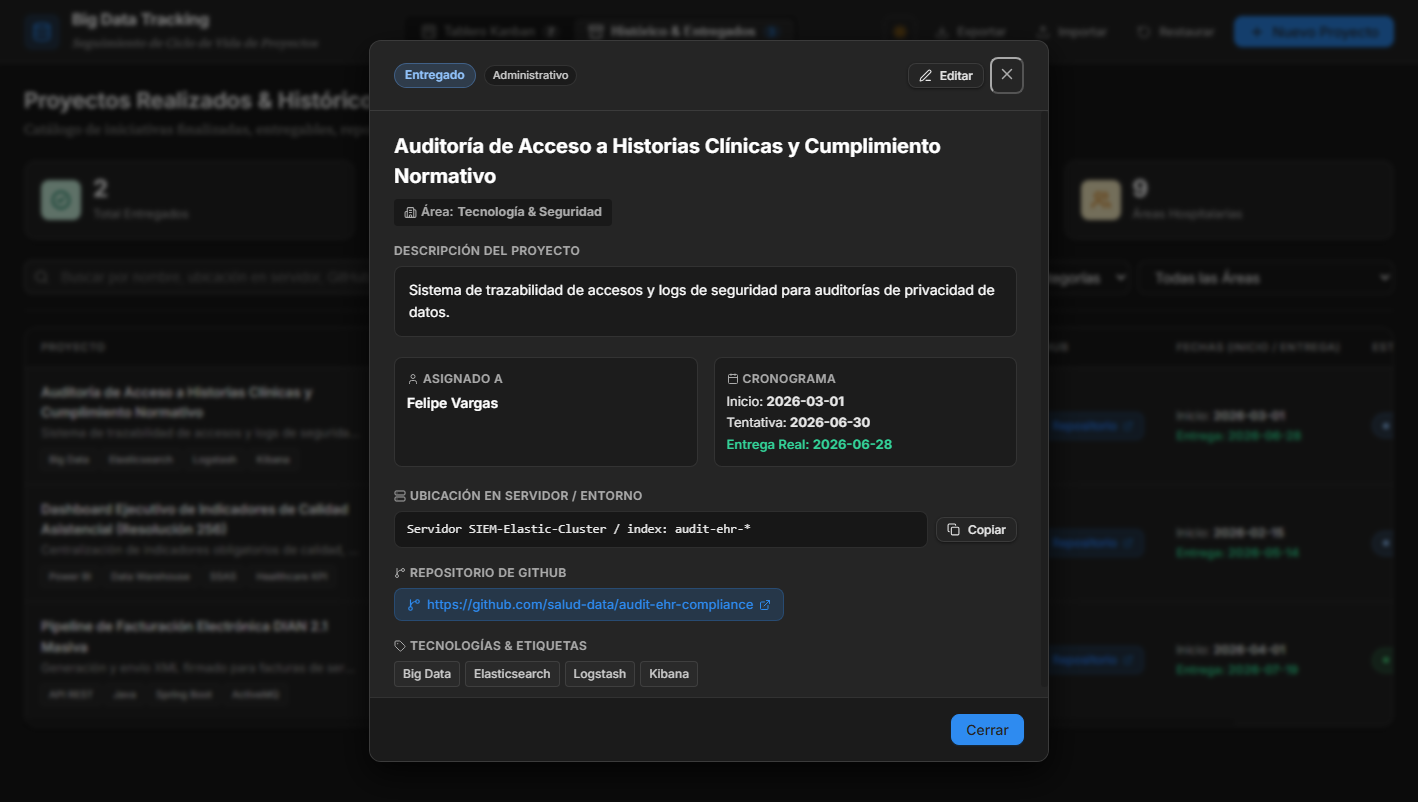
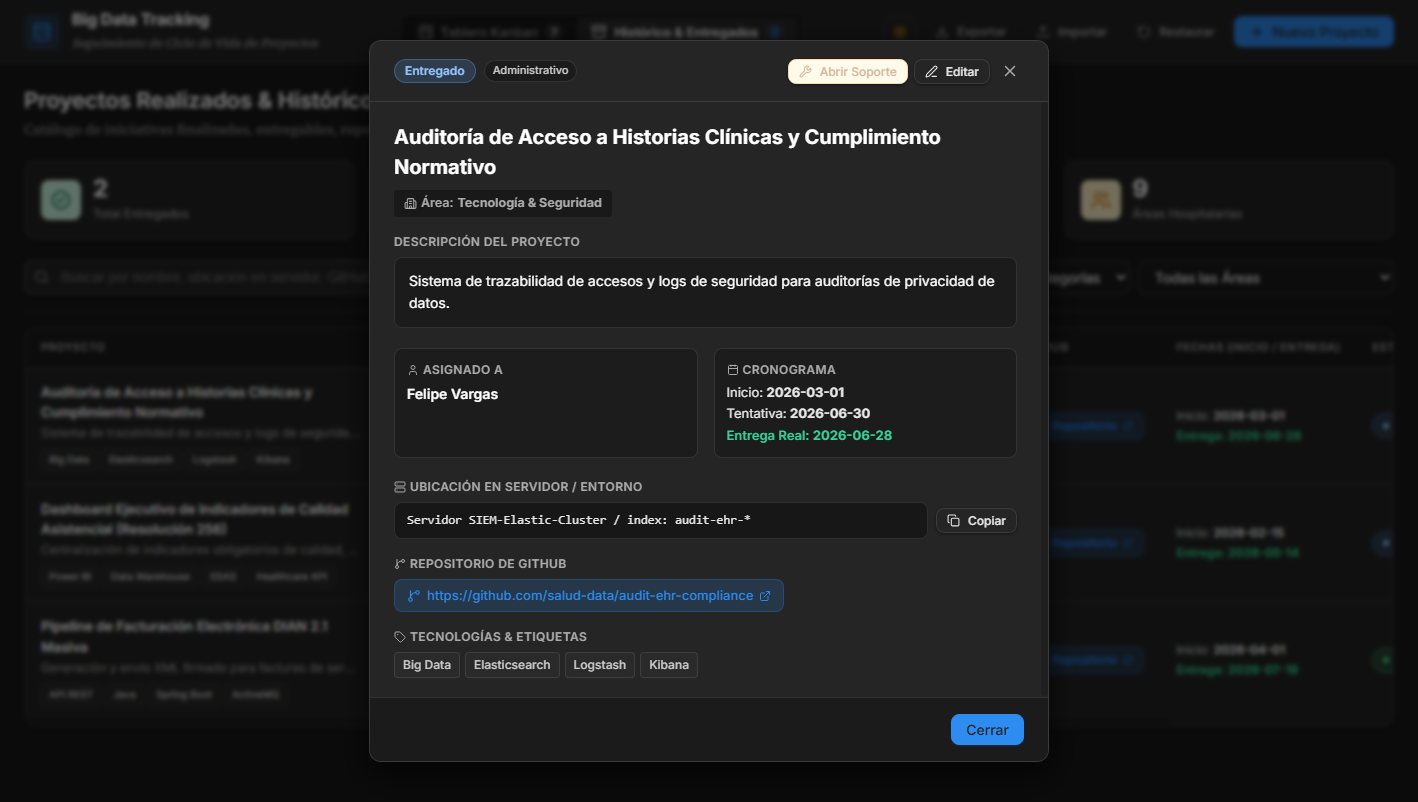
docs: update README with maintenance lineage architecture and refreshed screenshots

diff --git a/README.md b/README.md
@@ -2,7 +2,7 @@
 
 Sistema web centralizado para la gestión, seguimiento visual y trazabilidad del ciclo de vida de iniciativas tecnológicas y proyectos de software (tales como Big Data, Pipelines ETL, Analítica, Integraciones y Dashboards Corporativos).
 
-Diseñado bajo la filosofía del **Notion Design System**, con soporte nativo para **Modo Claro** y **Modo Oscuro (`data-theme="dark"`)**, tarjetas minimalistas, arrastre interactivo y tabla de catálogo histórico.
+Diseñado bajo la filosofía del **Notion Design System**, con soporte nativo para **Modo Claro** y **Modo Oscuro (`data-theme="dark"`)**, tarjetas minimalistas, arrastre interactivo, catálogo histórico y sistema de linaje para mantenimiento continuo.
 
 ---
 
@@ -17,35 +17,67 @@ Visualiza el avance del ciclo de vida dividido en dos filas estratégicas: **Flu
 #### Características Clave:
 - **Herencia de Color por Etapa (Color Columns)**: Fondos tintados suaves y bordes de acento para cada columna (*Análisis*, *Diseño*, *Desarrollo*, *Pruebas*, *Despliegue*, *Capacitación*, etc.).
 - **Arrastre Fluido (Drag & Drop)**: Arrastre interactivo con `@formkit/drag-and-drop`. Al arrastrar a la columna *Pausado*, se solicita automáticamente la justificación de suspensión.
-- **Acción Rápida `+ Nuevo proyecto`**: Botón al pie de cada columna que abre el modal preseleccionando esa etapa.
+- **Acción Rápida `+` en Cabecera y Pie de Columna**: Botones discretos estilo Notion para añadir iniciativas directamente a una etapa específica.
+- **Filtrado Avanzado**: Filtrado instantáneo por texto, categoría (*Administrativo* / *Asistencial*), área organizacional y tipo de iniciativa (**Todos**, **Solo Proyectos Base**, **Solo Soporte / Mantenimiento**).
 
 ---
 
-### 2. Histórico & Catálogo de Entregados
+### 2. Sistema de Linaje de Mantenimiento & Soporte (Parent-Child)
 
-Catálogo general de proyectos finalizados y entregados con métricas ejecutivas, buscador en tiempo real y filtrado por área y clasificación.
+Resuelve la necesidad operativa de brindar soporte, correcciones y evolutivos a proyectos que ya fueron entregados formalmente, **sin alterar su fecha de entrega ni su historial de cierre**.
+
+![Modal de Soporte y Mantenimiento](./docs/screenshots/maintenance_modal.png)
+
+#### ¿Cómo Funciona el Linaje?
+1. **Inmutabilidad del Proyecto Base**:
+   - Cuando un proyecto culmina y pasa a estado `Entregado`, queda archivado e inmutable en el **Histórico**, preservando su fecha real de entrega y métricas para auditoría.
+2. **Apertura de Incidencias / Requerimientos**:
+   - Desde el *Histórico*, el *Detalle del Proyecto* o el menú contextual de la tarjeta en Kanban, se puede disparar la acción **"Abrir Soporte / Mantenimiento"**.
+   - Se despliega el modal de mantenimiento, el cual hereda automáticamente el área, la categoría asistencial/administrativa, la ubicación en servidor y el repositorio de GitHub del proyecto padre.
+3. **Tipificación Técnica**:
+   - 🔴 **Correctivo (Bugfix)**: Corrección de errores, fallos o inconsistencias en producción.
+   - 🔵 **Evolutivo (Mejora)**: Ampliación de alcance, nuevas métricas o funcionalidades adicionales.
+   - 🟤 **Soporte Operativo**: Acompañamiento, extracciones de datos ad-hoc o mantenimiento preventivo.
+   - 🟡 **Seguridad / Parche**: Actualización de certificados, parches de seguridad y control de accesos.
+4. **Definición de Alcance**:
+   - Campo obligatorio para documentar con precisión **qué componente o proceso se está reparando o ajustando**.
+5. **Visibilidad en el Flujo de Trabajo (Kanban)**:
+   - Los tickets de soporte nacen como tarjetas activas en el Kanban con un distintivo visual claro:
+     - Pastilla con icono de herramienta: `🔧 Soporte de: [Nombre del Proyecto Base]`.
+     - Recuadro contextual con el alcance puntual de lo que se está reparando.
+6. **Trazabilidad Bidireccional**:
+   - En el **Proyecto Base**: En el modal de detalle se visualiza la sección *"Historial de Mantenimientos & Soporte"* con todos los tickets asociados, sus estados y enlaces directos.
+   - En el **Ticket Hijo**: Dispone de un enlace directo para consultar la iniciativa base referenciada.
+   - En el **Histórico**: Cada proyecto muestra un badge con el total de soportes vinculados (`🔧 N Soportes vinculados`).
+
+---
+
+### 3. Histórico & Catálogo de Entregados
+
+Catálogo general de proyectos finalizados y entregados con métricas ejecutivas, buscador en tiempo real y gestión de linaje.
 
 ![Histórico & Entregados](./docs/screenshots/history_view.png)
 
 #### Características Clave:
+- **Acción Directa de Soporte**: Botón `Soporte` en la columna de acciones para abrir requerimientos vinculados con un solo clic.
 - **Trazabilidad Técnica**: Muestra la ubicación exacta en servidor/clúster con botón de **Copiado en 1 Clic**.
 - **Acceso a Repositorio**: Enlace directo al código fuente en GitHub.
 - **Asignado a sin cortes**: Formato de celda protegido (`white-space: nowrap`) con iniciales en avatar translúcido.
-- **Estado Final & Fechas**: Pastillas de estado translúcidas de alto contraste y fechas de entrega destacadas en verde esmeralda (`#34d399`).
+- **Estado Final & Fechas**: Pastillas de estado translúcidas de alto contraste y fechas de entrega destacadas en verde esmeralda.
 
 ---
 
-### 3. Modal de Detalle de Proyecto
+### 4. Modal de Detalle de Proyecto
 
-Vista expandida al hacer clic en cualquier tarjeta o fila para inspeccionar todos los atributos del proyecto.
+Vista expandida al hacer clic en cualquier tarjeta o fila para inspeccionar todos los atributos técnicos del proyecto, cronograma, tecnologías y el historial de incidencias vinculadas.
 
 ![Modal de Detalle](./docs/screenshots/detail_modal.png)
 
 ---
 
-### 4. Modal de Creación y Edición
+### 5. Modal de Creación y Edición
 
-Formulario completo para añadir y modificar iniciativas, con áreas predefinidas de salud y administración, tags personalizables y validación de justificaciones.
+Formulario completo para registrar y modificar iniciativas, con áreas organizacionales predefinidas, tags personalizables y validación de justificaciones.
 
 ![Modal de Formulario](./docs/screenshots/project_modal.png)
 
@@ -53,7 +85,7 @@ Formulario completo para añadir y modificar iniciativas, con áreas predefinida
 
 ## 💾 Importación y Exportación de Respaldos (JSON)
 
-- **Exportar**: Descarga un respaldo completo `.json` con todos los proyectos registrados.
+- **Exportar**: Descarga un respaldo completo `.json` con todos los proyectos registrados (incluyendo sus metadatos de linaje).
 - **Importar con Decisión de Usuario**: Al subir un archivo JSON, el sistema valida la estructura y despliega un modal donde el usuario elige entre:
   - 🔀 **Fusionar con los actuales (Recomendado)**: Preserva los proyectos existentes y agrega los importados (actualizando coincidencias por ID).
   - ⚠ **Reemplazar todo el catálogo**: Sobrescribe el almacenamiento local con la data del archivo.
@@ -103,23 +135,23 @@ pnpm build
 ```
 projects-tracking/
 ├── docs/
-│   └── screenshots/        # Capturas de pantalla para la documentación
+│   └── screenshots/          # Capturas de pantalla actualizadas
 ├── src/
 │   ├── components/
-│   │   ├── History/        # Vista de tabla e histórico
-│   │   ├── Kanban/         # Tablero, columnas y tarjetas minimalistas
-│   │   ├── Modals/         # Modales de detalle, edición, pausa e importación
-│   │   └── Navbar.tsx      # Navegación superior con selector de tema
+│   │   ├── History/          # Vista de tabla e histórico con badges de linaje
+│   │   ├── Kanban/           # Tablero, columnas y tarjetas con soporte de mantenimiento
+│   │   ├── Modals/           # Modales: Detalle, Edición, Pausa, Importación y Mantenimiento
+│   │   └── Navbar.tsx        # Navegación superior con selector de tema
 │   ├── services/
-│   │   ├── initialData.ts  # Datos de semilla iniciales
-│   │   └── storage.ts      # Servicio de persistencia e import/export JSON
+│   │   ├── initialData.ts    # Datos de semilla iniciales
+│   │   └── storage.ts        # Persistencia, validación e import/export JSON
 │   ├── styles/
-│   │   ├── base.css        # Resets y modales
-│   │   ├── history.css     # Estilos de la tabla de histórico
-│   │   ├── kanban.css      # Sistema de columnas temáticas y tarjetas
-│   │   └── tokens.css      # Design tokens oficiales de Notion (Claro/Oscuro)
+│   │   ├── base.css          # Resets, tipografía y modales
+│   │   ├── history.css       # Estilos de la tabla de histórico
+│   │   ├── kanban.css        # Columnas temáticas, tarjetas y badges de soporte
+│   │   └── tokens.css        # Design tokens oficiales de Notion (Claro/Oscuro)
 │   ├── types/
-│   │   └── project.ts      # Interfaces de TypeScript y configuración de estados
+│   │   └── project.ts        # Interfaces (Project, MaintenanceType, ProjectStatus)
 │   ├── App.tsx
 │   └── main.tsx
 ├── package.json
